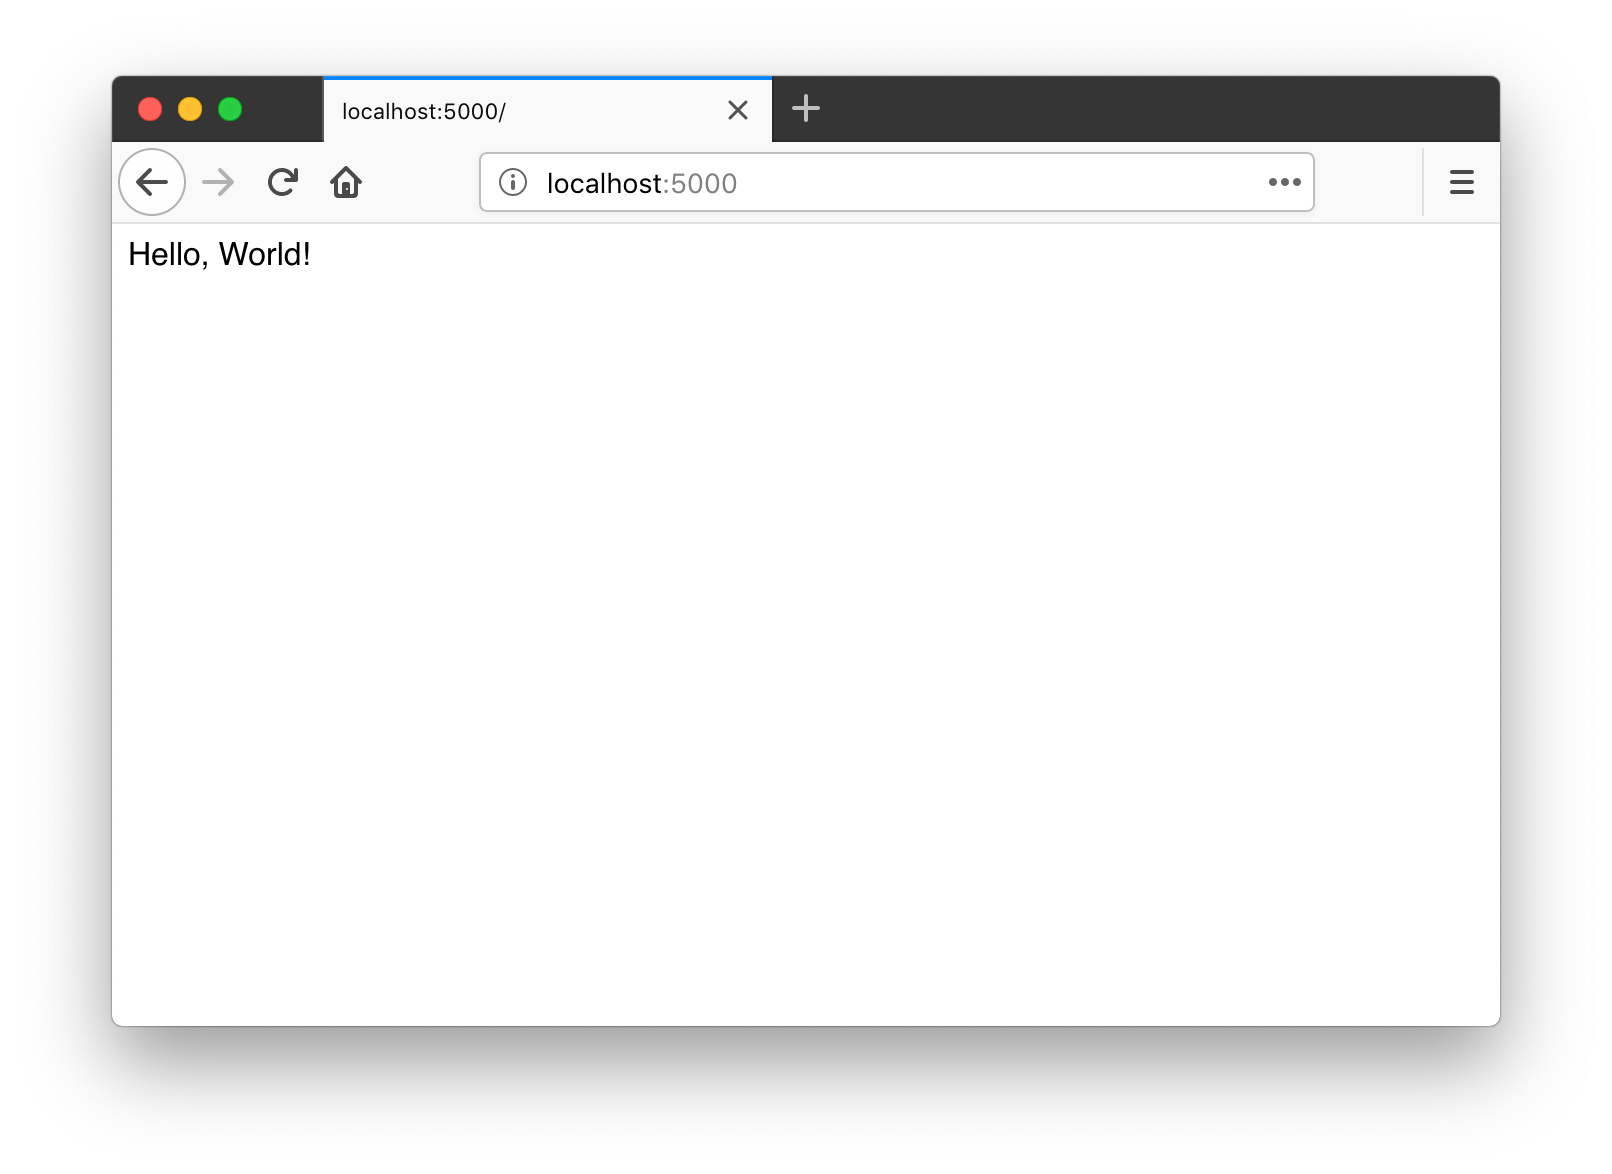
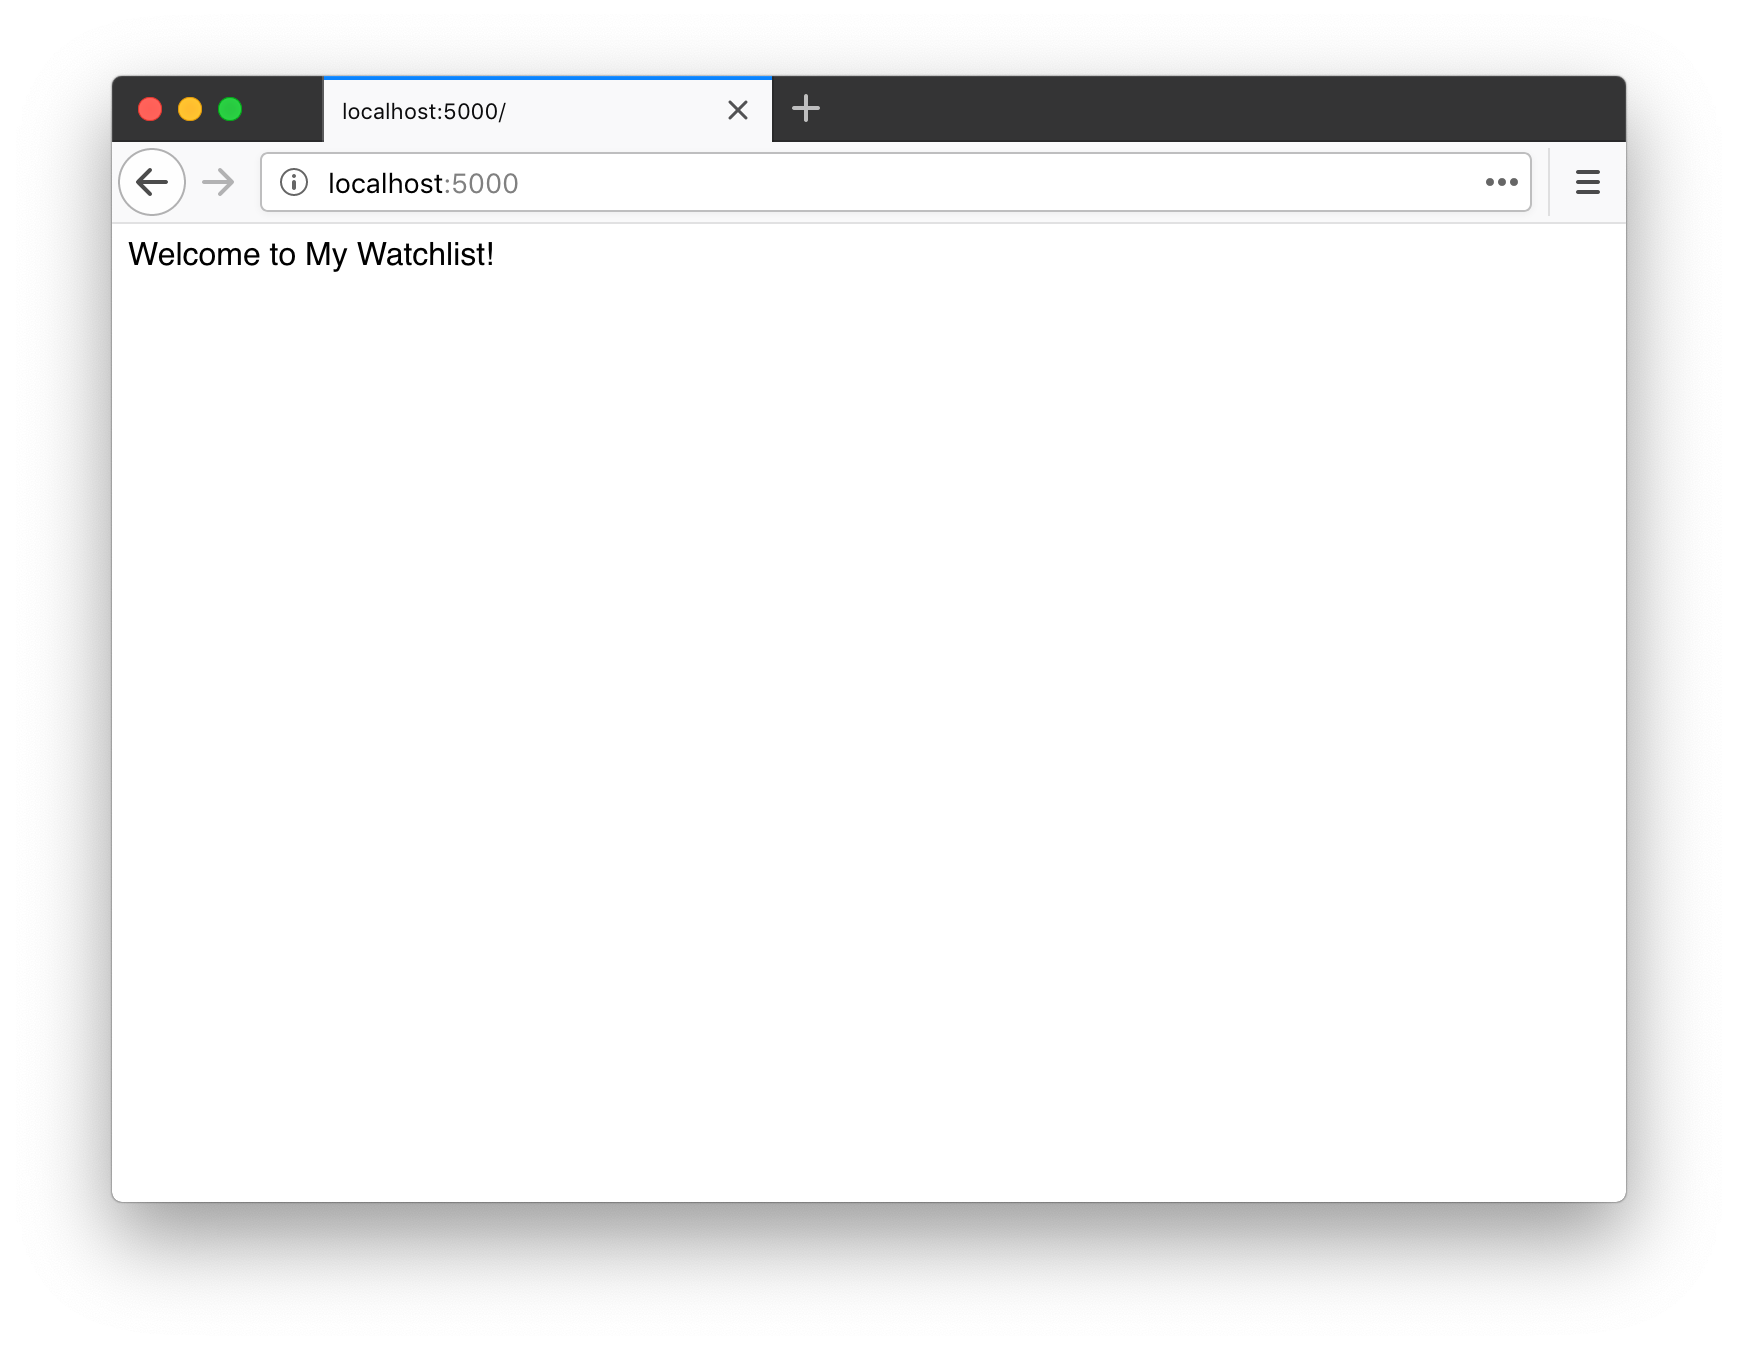
Chapter 2 Hello, Flask! 90%

Changed region(s): [[0.062, 0.0307, 0.9615, 0.8893]]

diff --git a/chapters/c2-hello.md b/chapters/c2-hello.md
@@ -1,23 +1,23 @@
-# Hello, Flask!
+# 第 2 章：Hello, Flask!
 
-追溯到最初，Flask 诞生于2010年的愚人节，作为 Armin Ronacher 的一个玩笑。后来，它逐渐发展成为一个成熟的 Python Web 框架，越来越受到开发者的喜爱。目前它在 GitHub 上是 Star 数量最多的 Python Web 框架，没有之一。
+追溯到最初，Flask 诞生于 Armin Ronacher 在 2010 年愚人节开的一个玩笑。后来，它逐渐发展成为一个成熟的 Python Web 框架，越来越受到开发者的喜爱。目前它在 GitHub 上是 Star 数量最多的 Python Web 框架，没有之一。
 
-Flask 是典型的微框架，作为 Web 框架来说，它仅保留了核心功能：**请求响应处理**由 Werkzeug（WSGI 工具库）完成；**模板渲染**由 Jinja（模板渲染库）完成。
+Flask 是典型的微框架，作为 Web 框架来说，它仅保留了核心功能：**请求响应处理**和**模板渲染**。这两类功能分别由 Werkzeug（WSGI 工具库）完成和 Jinja（模板渲染库）完成，因为 Flask 包装了这两个依赖，我们暂时不用深入了解它们。
 
 ## 主页
 
-先来为我们的程序编写一个简单的主页。主页的 URL 一般就是根地址，即“/”。当用户访问根地址的时候，我们返回一行欢迎文字：
+这一章的主要任务就是为我们的程序编写一个简单的主页。主页的 URL 一般就是根地址，即 `/`。当用户访问根地址的时候，我们需要返回一行欢迎文字。这个任务只需要下面几行代码就可以完成：
 
 ```python
 from flask import Flask
 app = Flask(__name__)
 
 @app.route('/')
-def index():
+def hello():
     return 'Welcome to My Watchlist!'
 ```
 
-按照惯例，我们把程序保存为 app.py，确保当前目录是项目的根目录，然后在命令行窗口执行下面的命令即可启动程序：
+按照惯例，我们把程序保存为 app.py，确保当前目录是项目的根目录，然后在命令行窗口执行 `flask run` 命令启动程序（按下 Control + C 可以退出）：
 
 ```bash
 $ flask run
@@ -29,32 +29,30 @@ $ flask run
 * Running on http://127.0.0.1:5000/ (Press CTRL+C to quit)
 ```
 
-现在打开浏览器，访问本地机的 5000 端口即可访问程序，如下图所示：
-
-![图2-1](images/2-1.png)
-
-*图片待更新*
-
-使用 flask run 命令时，Flask会使用内置的开发服务器来运行程序，这个服务器默认监听本地机的 5000 端口，也就是说，我们通过 URL http://127.0.0.1:5000 或是 http://localhost:5000 就可以访问到这个程序。
-
-**注意** 内置的开发服务器很简陋，只能用于开发时使用，部署上线的时候要换用性能更好的服务器，我们会在最后一章学习。
+现在打开浏览器，访问 http://localhost:5000 即可访问我们的程序主页，并看到我们在程序里返回的问候语，如下图所示：
 
 
+
+![2-1](images/2-1.png)
+
+执行 `flask run` 命令时，Flask 会使用内置的开发服务器来运行程序。这个服务器默认监听本地机的 5000 端口，也就是说，我们可以通过在地址栏输入 http://127.0.0.1:5000 或是 http://localhost:5000 访问程序。
+
+**注意** 内置的开发服务器只能用于开发时使用，部署上线的时候要换用性能更好的服务器，我们会在最后一章学习。
 
 ## 解剖时间
 
 下面我们来分解这个 Flask 程序，了解它的基本构成。
 
-首先我们从 flask 包导入 Flask 类，通过实例化这个类，创建一个程序对象：
+首先我们从 `flask` 包导入 `Flask` 类，通过实例化这个类，创建一个程序对象 `app`：
 
 ```python
 from flask import Flask
 app = Flask(__name__)
 ```
 
-接下来，我们要注册一个处理函数，这个函数是处理某个请求的处理函数，Flask 官方把它叫做视图函数（view funciton）。其实你可以不用在乎它叫什么名字，你只需要知道，在用户发出请求后，这类函数会被调用来返回资源的，即“**请求处理函数**”。
+接下来，我们要注册一个处理函数，这个函数是处理某个请求的处理函数，Flask 官方把它叫做视图函数（view funciton），你可以理解为“**请求处理函数**”。
 
-我们使用 app.route() 装饰器来为这个函数绑定对应的 URL，也就是说，为它指定一个触发的 URL。这个行为叫做注册路由：
+所谓的“注册”，就是给这个函数戴上一个装饰器帽子。我们使用 `app.route()` 装饰器来为这个函数绑定对应的 URL，当用户在浏览器访问这个 URL 的时候，就会触发这个函数，获取返回值，并把返回值显示到浏览器窗口：
 
 ```python
 @app.route('/')
@@ -62,65 +60,177 @@ def hello():
     return 'Welcome to My Watchlist!'
 ```
 
-填入 app.route() 装饰器的第一个参数是 URL 规则，这里的“/”指的是根地址。我们只需要写出相对地址，主机地址、端口号等都不需要写出。所以说，这里的“/”对应的是主机名后面的路径部分，完整 URL 就是 http://localhost:5000/。如果我们把程序部署在 http://helloflask.com 域名上，那么对应的完整URL就是 http://helloflask.com/ ；如果我们这里定义的 URL 规则是“/hello”，那么最终的完整 URL 就是  http://helloflask.com/hello 。
+填入 `app.route()` 装饰器的第一个参数是 URL 规则字符串，这里的 `/`指的是根地址。
+
+我们只需要写出相对地址，主机地址、端口号等都不需要写出。所以说，这里的 `/` 对应的是主机名后面的路径部分，完整 URL 就是 http://localhost:5000/。如果我们这里定义的 URL 规则是 `/hello`，那么完整 URL 就是  http://localhost:5000/hello 。
 
 整个请求的处理过程如下所示：
 
 1. 当用户在浏览器地址栏访问这个地址，在这里即 http://localhost:5000/
-2. 服务器解析请求，发现请求 URL 匹配的 URL 规则是“/”，因此调用对应的处理函数 hello
-3. 获取 hello 函数返回值，处理后返回给客户端
-4. 浏览器接受响应，显示在窗口
+2. 服务器解析请求，发现请求 URL 匹配的 URL 规则是 `/`，因此调用对应的处理函数 `hello()`
+3. 获取 `hello()` 函数的返回值，处理后返回给客户端（浏览器）
+4. 浏览器接受响应，将其显示在窗口上
 
-*提示 在 Web 程序的语境下，虽然客户端可能有多种类型，但在本书里通常是指浏览器。*
+**提示** 在 Web 程序的语境下，虽然客户端可能有多种类型，但在本书里通常是指浏览器。
 
 ## 程序发现机制
 
-如果你把上面的程序保存成其他的名字，比如hello.py，这时你会发现执行flask run命令会返回一个错误提示。这是因为Flask默认会假设你把程序存储在名为app.py或wsgi.py的文件中。如果你使用了其他名称，就要设置系统环境变量FLASK_APP来告诉Flask。
+如果你把上面的程序保存成其他的名字，比如 hello.py，接着执行 `flask run` 命令会返回一个错误提示。这是因为 Flask 默认会假设你把程序存储在名为 app.py 或 wsgi.py 的文件中。如果你使用了其他名称，就要设置系统环境变量 `FLASK_APP` 来告诉 Flask 你要启动哪个程序。
 
-Flask通过读取这个文件来找到要运行的程序，你可以把它设置成下面这些值：
+Flask 通过读取这个文件对应的模块寻找要运行的程序实例，你可以把它设置成下面这些值：
 
 * 模块名
-* Python导入路径
+* Python 导入路径
 * 文件目录路径
-
-## 调试模式
-
-在开发时，我们需要开启调试模式（debug mode）。调试模式可以通过将系统环境变量FLASK_ENV设为development来开启。调试模式开启后，当程序出错时，浏览器页面上会显示错误信息；代码出现变动后，程序会自动重载。
 
 ## 管理环境变量
 
-现在在启动Flask程序的时候，我们要和两个环境变量打交道：FLASK_APP和FLASK_ENV。当然，因为我们的程序现在的名字是app.py，暂时不需要设置FLASK_APP。为了方便，我们可以安装用来管理系统环境变量的python-dotenv：
+现在在启动 Flask 程序的时候，我们通常要和两个环境变量打交道：`FLASK_APP` 和 `FLASK_ENV`。因为我们的程序现在的名字是 app.py，暂时不需要设置 `FLASK_APP`；`FLASK_ENV` 用来设置程序运行的环境，默认为 `production`。在开发时，我们需要开启调试模式（debug mode）。调试模式可以通过将系统环境变量 `FLASK_ENV` 设为 `development` 来开启。调试模式开启后，当程序出错，浏览器页面上会显示错误信息；代码出现变动后，程序会自动重载。
+
+为了不用每次打开新的终端会话都要设置环境变量，我们安装用来管理系统环境变量的 python-dotenv：
 
 ```bash
 $ pipenv install python-dotenv
 ```
 
-当python-dotenv安装后，Flask会从项目根目录的.flaskenv和.env文件读取环境变量，我们分别使用文本编辑器创建这两个文件。.flaskenv存储Flask命令行系统相关的公开环境变量；而.env存储敏感数据，所以不应该提交进Git仓库，我们把.env添加到.gitignore文件的结尾（新建一行）来让Git忽略它：
+当 python-dotenv 安装后，Flask 会从项目根目录的 .flaskenv 和 .env 文件读取环境变量并设置。我们分别使用文本编辑器创建这两个文件，或是使用更方便的 `touch` 命令创建：
 
+```bash
+$ touch .env .flaskenv
 ```
+
+.flaskenv 用来存储 Flask 命令行系统相关的公开环境变量；而 .env 则用来存储敏感数据，不应该提交进Git仓库，我们把 .env 添加到 .gitignore 文件的结尾（新建一行）来让 Git 忽略它。你可以使用编辑器执行这个操作：
+
+```bash
 .env
 ```
 
-在新创建的.flaskenv文件里，我们定义FLASK_ENV的值：
+在新创建的 .flaskenv 文件里，我们写入一行 `FLASK_ENV=development` ，将环境变量 `FLASK_ENV` 的值设为 `development`，以便开启调试模式：
 
 ```bash
 FLASK_ENV=development
 ```
 
+## 实验时间
+
+在这个小节，我们可以通过做一些实验，来扩展和加深对本节内容的理解。
+
+### 修改视图函数返回值
+
+首先，你可以自由修改视图函数的返回值，比如：
+
+```python
+@app.route('/')
+def hello():
+    return u'欢迎来到我的 Watchlist！'
+```
+
+返回值作为响应的主体，默认会被浏览器作为 HTML 格式解析，所以我们可以添加一个 HTML 元素标记：
+
+```python
+@app.route('/')
+def hello():
+    return '<h1>Hello Totoro!</h1><img src="http://helloflask.com/totoro.gif">'
+```
+
+保存修改后，只需要在浏览器里刷新页面，你就会看到页面上的内容也会随之变化。
+
+![2-2](images/2-2.png)
+
+### 修改 URL 规则
+
+另外，你也可以自由修改传入 `app.route` 装饰器里的 URL 规则字符串，但要注意以斜线 `/` 作为开头。比如：
+
+```python
+@app.route('/home')
+def hello():
+    return 'Welcome to My Watchlist!'
+```
+
+保存修改，这时刷新浏览器，则会看到一个 404 错误提示，提示页面未找到（Page Not Found）。这是因为视图函数的 URL 改成了 `/home`，而我们刷新后访问的地址仍然是旧的 `/`。如果我们把访问地址改成 http://localhost:5000/home，就会正确看到返回值。
+
+一个视图函数也可以绑定多个 URL，这通过附加多个装饰器实现，比如：
+
+```python
+@app.route('/')
+@app.route('/index')
+@app.route('/home')
+def hello():
+    return 'Welcome to My Watchlist!'
+```
+
+现在无论是访问 http://localhost:5000/、http://localhost:5000/home 还是 http://localhost:5000/index 都可以看到返回值。
+
+在前面，我们之所以把传入 `app.route` 装饰器的参数称为 URL 规则，是因为我们也可以在 URL 里定义变量部分。比如下面这个视图函数会处理所有类似 `/user/<name>` 的请求：
+
+```python
+@app.route('/user/<name>')
+def user_page():
+    return 'User page'
+```
+
+不论你访问 http://localhost:5000/user/greyli，还是 http://localhost:5000/user/peter，抑或是 [http://localhost:5000/user/甲](http://localhost:5000/user/甲)，都会触发这个函数。通过下面的方式，我们也可以在视图函数里获取到这个变量值：
+
+```python
+@app.route('/user/<name>')
+def user_page(name):
+    return 'User: %s' % name
+```
+
+### 修改视图函数名？
+
+最后一个可以修改的部分就是视图函数的名称了。首先，视图函数的名字是自由定义的，和 URL 规则无关。和定义其他函数或变量一样，只需要让它表达出所要处理页面的含义即可。
+
+除此之外，它还有一个重要的作用：作为代表某个路由的端点（endpoint），同时用来生成 URL。对于程序内的 URL，为了避免手写，Flask 提供了一个 `url_for` 函数来生成 URL，它接受的第一个参数就是端点值，默认为视图函数的名称：
+
+```python
+from flask import url_for
+
+...
+
+@app.route('/')
+def hello():
+    return 'Hello'
+
+@app.route('/user/<name>')
+def user_page(name):
+    return 'User: %s' % name
+
+@app.route('/test')
+def test_url_for():
+	# 下面是一些调用示例：
+    print(url_for('hello'))  # 输出：/
+    # 注意下面两个调用是如何生成包含 URL 变量的 URL 的
+    print(url_for('user_page', name='greyli'))  # 输出：/user/greyli
+    print(url_for('user_page', name='peter'))  # 输出：/user/peter
+    print(url_for('test_url_for'))  # 输出：/test
+    # 下面这个调用传入了多余的关键字参数，它们会被作为查询字符串附加到 URL 后面。
+    print(url_for('test_url_for', num=2))  # 输出：/test?num=2
+    return 'Test page'
+```
+
+实验过程中编写的代码可以删掉，也可以保留，但记得为根地址返回一行问候，这可是我们这一章的任务。
+
 ## 本章小结
 
-这一章我们编写了一个最小的程序，接下来我们会让它逐渐长大。
-
-结束前，让我们提交代码：
+这一章我们为程序编写了主页，同时学习了 Flask 视图函数的基本编写方式。结束前，让我们提交代码：
 
 ```bash
 $ git add .
-$ git commit -m "Add minimal index page"
+$ git commit -m "Add minimal home page"
 $ git push
 ```
 
+为了保持简单，我们统一在章节最后一次提交所有改动。在现实世界里，通常会根据需要分为多个 commit；同样的，这里使用 `-m` 参数给出简单的提交信息。在现实世界里，你可能需要撰写更完整的提交信息。
+
+**提示** 你可以在 GitHub 上查看本书示例程序的对应 commit：
+
 ## 进阶提示
 
+* 如果你使用 Python 2.7，为了使程序正常工作，需要在脚本首行添加编码声明 `# -*- coding: utf-8-*-` ，并在包含中文的字符串前面添加 `u` 前缀。本书中对于包含中文的字符串均添加了 `u` 前缀，这在 Python 3 中并不需要。
+* 对于 URL 变量，Flask 还支持在 URL 规则字符串里对变量设置处理器，对变量进行预处理。比如 `/user/<int:number>` 会将 URL 中的 number 部分处理成整型，同时这个变量值接收传入数字。
+* 因为 Flask 的上下文机制，有一些变量和函数（比如 `url_for`函数）只能在特定的情况下才能正确执行，比如视图函数内。我们先暂时不用纠结，后面再慢慢了解。
+* 名字以 `.` 开头的文件默认会被隐藏，执行 `ls` 命令时会看不到它们，这时你可以使用 `ls -f` 命令来列出所有文件。
 * 了解 HTTP 基本知识将会有助于你了解 Flask 的工作原理。
 * 阅读文章[《互联网是如何工作的》](https://tutorial.djangogirls.org/zh/how_the_internet_works/)。
 * 如果你是《Flask Web 开发实战》的读者，这部分的进阶内容可以在第 1 章《初识 Flask》和第 2 章《HTTP 和 Flask》找到。

diff --git a/chapters/c1-ready.md b/chapters/c1-ready.md
@@ -1,4 +1,4 @@
-# 准备工作
+# 第 1 章：准备工作
 
 在通过这本书学习 Flask 开发前，我假设你了解了 Python 和 HTML 的基础知识。你的 Python 版本可以是 2.7，也可以是 3.3 及以上版本。电脑的操作系统可以是 Windows，也可以是 macOS 或 Linux。
 
